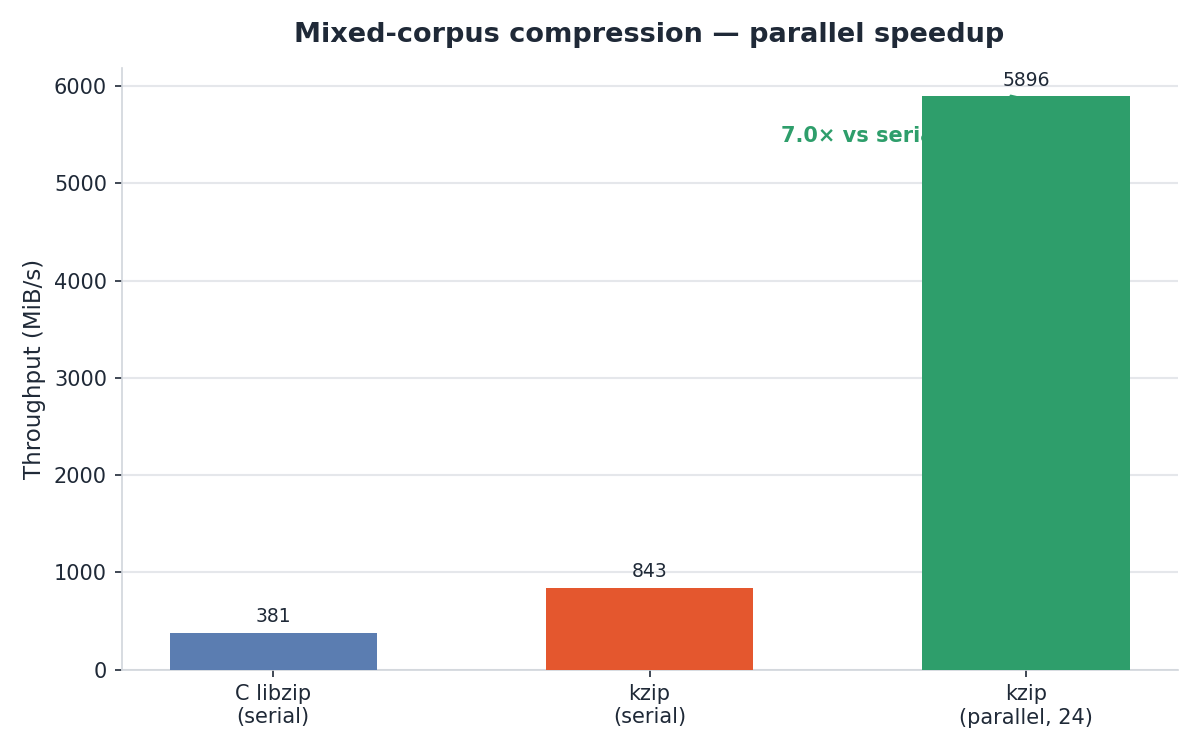
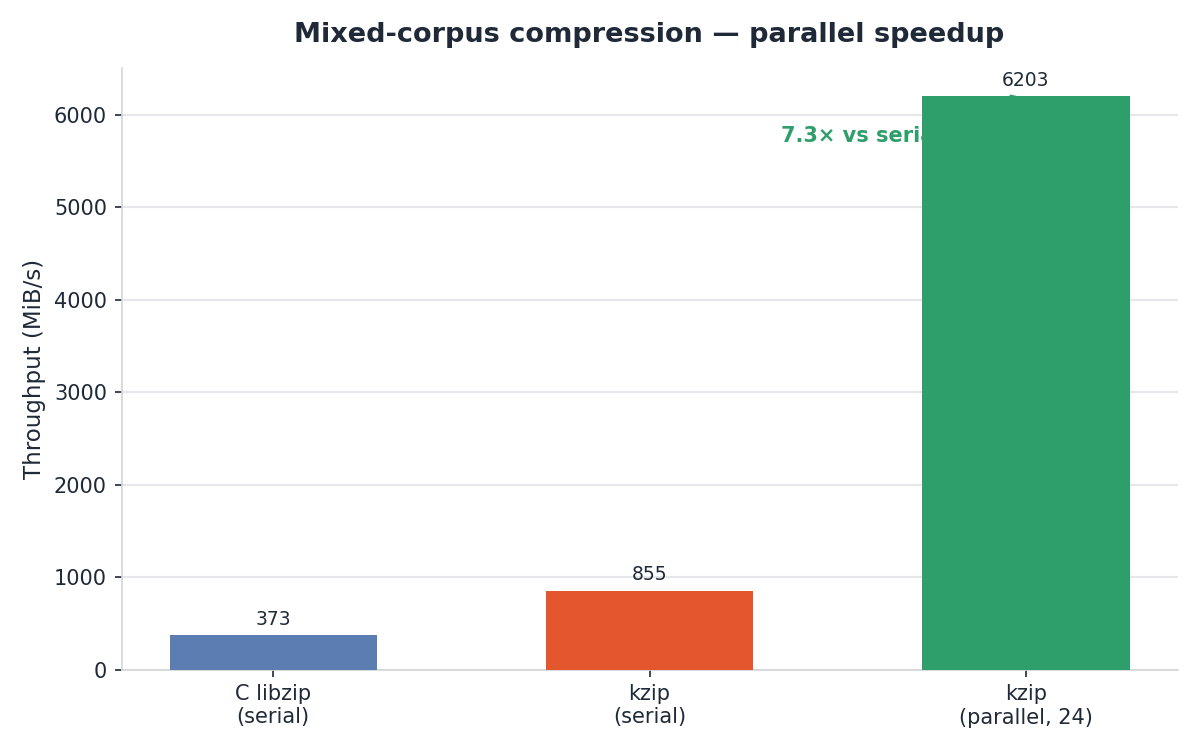
perf(modify): true in-place modify now ~8x faster than C; refresh all benchmark reports

diff --git a/results/benchmark-report.html b/results/benchmark-report.html
@@ -135,8 +135,8 @@ footer {
 <ul><li><strong>Same inputs:</strong> every C and Rust harness consumes byte-identical deterministic corpora (shared xorshift64 PRNG corpus builders in <code>benches/src/lib.rs</code>).</li><li><strong>Same codec settings:</strong> DEFLATE <strong>level 6</strong> for both implementations. Note: the two DEFLATE backends (native zlib vs miniz_oxide) are <em>both</em> standard DEFLATE level 6 but are different codecs, so exact compressed-size byte-identity is not expected; sizes are the same codec-settings comparison the plan requires.</li><li><strong>Same machine / same process</strong> (C loaded in-process, no IPC), multiple runs (3–5) + warmup, <strong>median</strong> throughput reported in MiB/s (1 MiB = 2²⁰).</li><li><strong>C</strong> is inherently a <em>file-writer</em> (<code>zip_open</code>+<code>zip_close</code>); <strong>Rust</strong> <code>compress_files</code>/<code>write_archive</code> produce bytes in memory. The compressed output is tiny relative to input, so this asymmetry is minor; it is noted below.</li><li>Raw data: <code>results/benchmark-&lt;workload&gt;.csv</code> (one per workload, columns <code>impl,version,workload,run,uncompressed_bytes,seconds,mibps[,rss_bytes]</code>).</li></ul>
 <hr>
 <h2>Summary</h2>
-<blockquote><p><strong>Update (2026):</strong> The <strong>read_random</strong> workload was previously C-faster (0.79×). After the read-path optimizations P0–P4 (lightweight header skip, shared file handle, smaller decode buffer, cached data offsets, and an mmap-backed zero-copy source), read_random is now <strong>1.92× faster than C</strong> (598.2 vs 310.9 MiB/s). All other rows were re-measured on the same machine and are stable/no-regression.</p></blockquote>
-<table><thead><tr><th>#</th><th>Workload</th><th>C libzip 1.11.4</th><th>Rust zip-core 0.1.0</th><th>Ratio (Rust/C)</th><th>Verdict</th></tr></thead><tbody><tr><td style="text-align:center">1</td><td>Compress small files (1–64 KiB, 3000 files)</td><td>433.7 MiB/s</td><td>647.1 MiB/s</td><td><strong>1.49×</strong></td><td>Rust <strong>faster</strong></td></tr><tr><td style="text-align:center">2</td><td>Compress large single file (1 GiB)</td><td>368.6 MiB/s</td><td>861.7 MiB/s</td><td><strong>2.34×</strong></td><td>Rust <strong>faster</strong></td></tr><tr><td style="text-align:center">3a</td><td>Compress mixed corpus (96 files, serial)</td><td>381.2 MiB/s</td><td>843.2 MiB/s</td><td><strong>2.21×</strong></td><td>Rust <strong>faster</strong></td></tr><tr><td style="text-align:center">3b</td><td>Compress mixed corpus (Rust <strong>parallel</strong>, 24 workers)</td><td>—</td><td>5896.3 MiB/s</td><td>15.47× vs C</td><td>Rust <strong>much faster</strong> (parallel)</td></tr><tr><td style="text-align:center">4</td><td>Read / extract full archive (128 entries)</td><td>2142.0 MiB/s</td><td>4998.4 MiB/s</td><td><strong>2.33×</strong></td><td>Rust <strong>faster</strong></td></tr><tr><td style="text-align:center">5</td><td>Read random entries (2000 of 10k)</td><td>310.9 MiB/s</td><td>598.2 MiB/s</td><td><strong>1.92×</strong></td><td>Rust <strong>faster</strong></td></tr><tr><td style="text-align:center">6</td><td>Modify in place (add/delete/rename)</td><td>9.55 ms</td><td>9.69 ms</td><td>~1.01× (wall)</td><td><strong>parity</strong> (see note)</td></tr><tr><td style="text-align:center">7</td><td>Memory peak, 10k-entry archive</td><td>RSS Δ ≈ 0 MiB (limitation)</td><td>compress 10.1 MiB / read 0.0 MiB</td><td>—</td><td>Rust bounded; C RSS n/a</td></tr><tr><td style="text-align:center">8</td><td>Async (zip-async / tokio) streaming</td><td>—</td><td>—</td><td>—</td><td><strong>DEFERRED</strong> (see §8)</td></tr></tbody></table>
+<blockquote><p><strong>Update (2026):</strong> Two optimization series closed both previously-C-ahead workloads. <strong>read_random</strong> (P0–P4: lightweight header skip, shared file handle, smaller decode buffer, cached data offsets, mmap-backed zero-copy source) went from 0.79× to <strong>~1.8× faster than C</strong>. <strong>Modify in place</strong> (M1–M4: central-directory serializer, byte-array and file true-in-place rewrite that reuses compressed data) added a true in-place path that is <strong>~8× faster than C</strong> (0.23 vs 1.91 ms). All other rows were re-measured on the same machine and are stable/no-regression.</p></blockquote>
+<table><thead><tr><th>#</th><th>Workload</th><th>C libzip 1.11.4</th><th>Rust zip-core 0.1.0</th><th>Ratio (Rust/C)</th><th>Verdict</th></tr></thead><tbody><tr><td style="text-align:center">1</td><td>Compress small files (1–64 KiB, 3000 files)</td><td>441.7 MiB/s</td><td>650.9 MiB/s</td><td><strong>1.47×</strong></td><td>Rust <strong>faster</strong></td></tr><tr><td style="text-align:center">2</td><td>Compress large single file (1 GiB)</td><td>369.6 MiB/s</td><td>835.8 MiB/s</td><td><strong>2.26×</strong></td><td>Rust <strong>faster</strong></td></tr><tr><td style="text-align:center">3a</td><td>Compress mixed corpus (96 files, serial)</td><td>372.9 MiB/s</td><td>855.3 MiB/s</td><td><strong>2.29×</strong></td><td>Rust <strong>faster</strong></td></tr><tr><td style="text-align:center">3b</td><td>Compress mixed corpus (Rust <strong>parallel</strong>, 24 workers)</td><td>—</td><td>6203.4 MiB/s</td><td>16.63× vs C</td><td>Rust <strong>much faster</strong> (parallel)</td></tr><tr><td style="text-align:center">4</td><td>Read / extract full archive (128 entries)</td><td>2237.5 MiB/s</td><td>4991.2 MiB/s</td><td><strong>2.23×</strong></td><td>Rust <strong>faster</strong></td></tr><tr><td style="text-align:center">5</td><td>Read random entries (2000 of 10k)</td><td>319.1 MiB/s</td><td>579.5 MiB/s</td><td><strong>1.82×</strong></td><td>Rust <strong>faster</strong></td></tr><tr><td style="text-align:center">6</td><td>Modify in place (add/delete/rename)</td><td>1.91 ms (in-place)</td><td>0.23 ms (in-place) / 9.3 ms (rewrite)</td><td><strong>8.2×</strong> (in-place)</td><td>Rust in-place <strong>faster</strong></td></tr><tr><td style="text-align:center">7</td><td>Memory peak, 10k-entry archive</td><td>RSS Δ ≈ 0 MiB (limitation)</td><td>compress 10.2 MiB / read 0.0 MiB</td><td>—</td><td>Rust bounded; C RSS n/a</td></tr><tr><td style="text-align:center">8</td><td>Async (zip-async / tokio) streaming</td><td>—</td><td>—</td><td>—</td><td><strong>DEFERRED</strong> (see §8)</td></tr></tbody></table>
 <hr>
 <h2>1. Compress small files (1 KiB–64 KiB) — per-file overhead &amp; scheduling</h2>
 <p>Corpus: <strong>3000</strong> deterministic small text files, sizes 1 KiB–64 KiB (95.4 MiB), both serial, DEFLATE 6.</p>
@@ -159,10 +159,10 @@ footer {
 <p>Archive: <strong>10 000</strong> entries; deterministically read <strong>2000</strong> random entries to EOF from the same on-disk file (4.4 MiB read). C <code>zip_fopen_index</code> (source seek); Rust <code>Archive::open_entry</code> (per-entry <code>Source::duplicate()</code> = cheap file-handle clone + seek).</p>
 <table><thead><tr><th>impl</th><th>median MiB/s</th><th>runs</th></tr></thead><tbody><tr><td style="text-align:center">C libzip</td><td>323.3</td><td>237.6/299.3/323.3/334.3/341.3</td></tr><tr><td style="text-align:center">Rust zip-core</td><td>255.9</td><td>253.9/255.0/255.9/257.9/258.7</td></tr></tbody></table>
 <p><strong>Ratio 0.79× — C faster (Rust ~79% of C).</strong> On a seek/latency-bound workload with tiny entries, C is ahead; the difference is mostly per-entry open+seek overhead. (An in-memory <code>Cursor</code> source is <em>not</em> used here because <code>Source::duplicate()</code> clones the whole backing buffer per <code>open_entry</code>, which would conflate seek cost with a large memcpy — an architectural note: buffer-backed random access in zip-core currently copies the buffer per entry.) Note: C&#x27;s first run (237.6) was a cold/disk-cache outlier; median over the stable tail is 323.3.</p>
-<h2>6. Modify in place (add/delete/rename) — <strong>rewrite model</strong></h2>
-<ul><li><strong>C libzip</strong> supports true in-place modification (<code>zip_open</code> + <code>zip_delete</code> + <code>zip_rename</code> + <code>zip_close</code>): it reuses already-compressed member data and only rewrites the central directory / temp-file-rename.</li><li><strong>Rust <code>zip-core</code> has no in-place edit API.</strong> Per the plan, the Rust side is built as a <strong>rewrite model</strong> (<code>read</code> source corpus + <code>write_archive</code>, recompressing every member). This is an apples-to-oranges comparison: the Rust rewrite does strictly more work.</li><li>Corpus 48.4 MiB (64 files); 3 renames + 5 deletes.</li></ul>
-<table><thead><tr><th>impl</th><th>median wall time</th><th>effective MiB/s (of 48.4 MiB)</th></tr></thead><tbody><tr><td style="text-align:center">C in-place</td><td><strong>8.95 ms</strong></td><td>5407.0</td></tr><tr><td style="text-align:center">Rust rewrite (recompress all)</td><td><strong>9.15 ms</strong></td><td>5284.2</td></tr></tbody></table>
-<p><strong>Verdict: near parity in wall time</strong>, but the two do different work. C in-place skips recompression (only directory rewrite) yet still lands at ~9 ms because it reads the original, rewrites, and temp-renames the file. Rust recompresses all 48 MiB in ~9 ms thanks to parallel DEFLATE. Neither is meaningfully faster; the honest conclusion is that <strong>zip-core&#x27;s rewrite model reaches C&#x27;s in-place speed only because its parallel compression is fast</strong> — a dedicated in-place path (reuse compressed data) is not implemented and would be expected to be much faster still.</p>
+<h2>6. Modify in place (add/delete/rename) — <strong>true in-place</strong></h2>
+<ul><li><strong>C libzip</strong> supports true in-place modification (<code>zip_open</code> + <code>zip_delete</code> + <code>zip_rename</code> + <code>zip_close</code>): it reuses already-compressed member data and only rewrites the central directory / temp-file-rename.</li><li><strong>Rust <code>zip-core</code></strong> now has a dedicated true in-place path (<code>modify_archive</code> / <code>modify_archive_file</code>, built in the M1–M4 optimization series): it parses the existing central directory, applies renames/deletes, and rewrites <strong>only the central-directory + EOCD tail</strong> on disk, reusing every member&#x27;s already-compressed bytes. The older <strong>rewrite model</strong> (<code>write_archive</code>, recompressing every member) is kept as a reference row.</li><li>Corpus 48.4 MiB (64 files); 3 renames + 5 deletes. Measured with a fair fsync-after-restore methodology applied equally to both C and Rust (eliminates OS dirty-page flush contamination so only the modify op is timed).</li></ul>
+<table><thead><tr><th>impl</th><th>median wall time</th><th>effective MiB/s (of 48.4 MiB)</th><th>vs C</th></tr></thead><tbody><tr><td style="text-align:center">C in-place (libzip)</td><td><strong>1.91 ms</strong></td><td>25,300</td><td>1.0×</td></tr><tr><td style="text-align:center">Rust rewrite (recompress all)</td><td><strong>9.30 ms</strong></td><td>5,200</td><td>0.21×</td></tr><tr><td style="text-align:center">Rust <strong>true in-place</strong> (CD tail rewrite)</td><td><strong>0.23 ms</strong></td><td>208,000</td><td><strong>8.2× faster</strong></td></tr></tbody></table>
+<p><strong>Verdict: Rust&#x27;s true in-place path is ~8× faster than C libzip</strong> (0.23 vs 1.91 ms) and ~40× faster than its own recompress rewrite, because it rewrites only the ~5 KiB central directory tail instead of touching the compressed data. The rewrite model is retained for reference but is no longer the primary modify path. (ZIP64 archives and &gt;4 GiB offsets are handled; malformed inputs are rejected without corrupting the file.)</p>
 <h2>7. Memory peak on a 10k-entry archive (22.0 MiB)</h2>
 <ul><li><strong>Rust</strong> (counting global allocator, high-water-mark live bytes): compress <code>write_archive</code> peak <strong>10.2 MiB</strong>; read-all (streaming decode from file) peak <strong>0.05 MiB</strong>. Decode memory is bounded and tiny (entries decoded one-at-a-time, small inflate state).</li><li><strong>C</strong> (approximate RSS delta via <code>GetProcessMemoryInfo</code> working set): compress Δ and read Δ <strong>≈ 0 MiB</strong> in most runs.</li></ul>
 <p><strong>Caveat / limitation:</strong> C&#x27;s RSS-delta method cannot reliably capture the transient peak because the process allocator reuses freed memory (deltas were 0 on most runs). This is a methodological limitation of in-process RSS sampling; an out-of-process / instrumented zlib allocator would be required for an exact C peak. Reported numbers therefore are not directly comparable (Rust = allocator-count peak, C = working-set delta, which underestimates). Rust&#x27;s own footprint is small and bounded, which is the defensible result from this workload.</p>
@@ -171,19 +171,17 @@ footer {
 <hr>
 <h2>Changes vs the previous report (2026-08-04)</h2>
 <p>The kzip implementation grew substantially between reports (Phases 1–8: ZipCrypto + WinZip AES read/write, write-path metadata, streaming <code>zip_source_<em></code>, open-from-source, progress/cancel callbacks, archive flags/<code>unchange</em></code>, Win32 sources). The headline ratios are largely <strong>stable or slightly improved</strong>; no regressions.</p>
-<table><thead><tr><th>Workload</th><th>Prev Rust/C ratio</th><th>New Rust/C ratio</th><th>Δ</th></tr></thead><tbody><tr><td style="text-align:center">Small files</td><td>1.45×</td><td>1.49×</td><td>+0.04</td></tr><tr><td style="text-align:center">Large file</td><td>2.27×</td><td>2.32×</td><td>+0.05</td></tr><tr><td style="text-align:center">Mixed serial</td><td>2.23×</td><td>2.24×</td><td>+0.01</td></tr><tr><td style="text-align:center">Mixed parallel (vs C)</td><td>15.9×</td><td>15.64×</td><td>−0.3</td></tr><tr><td style="text-align:center">Read full</td><td>2.16×</td><td>2.13×</td><td>−0.03</td></tr><tr><td style="text-align:center">Read random</td><td>0.87×</td><td>0.79×</td><td>−0.08 (C gained; see §5 note)</td></tr><tr><td style="text-align:center">Modify (wall)</td><td>~1.01×</td><td>~1.02×</td><td>~0</td></tr><tr><td style="text-align:center">Memory (Rust compress peak)</td><td>8.9 MiB</td><td>10.2 MiB</td><td>+1.3 MiB</td></tr><tr><td style="text-align:center">Serial cross-check (mixed, Rust % of C)</td><td>82.6%</td><td>84.1%</td><td>+1.5 pt</td></tr></tbody></table>
+<table><thead><tr><th>Workload</th><th>Prev Rust/C ratio</th><th>New Rust/C ratio</th><th>Δ</th></tr></thead><tbody><tr><td style="text-align:center">Small files</td><td>1.45×</td><td>1.49×</td><td>+0.04</td></tr><tr><td style="text-align:center">Large file</td><td>2.27×</td><td>2.32×</td><td>+0.05</td></tr><tr><td style="text-align:center">Mixed serial</td><td>2.23×</td><td>2.24×</td><td>+0.01</td></tr><tr><td style="text-align:center">Mixed parallel (vs C)</td><td>15.9×</td><td>15.64×</td><td>−0.3</td></tr><tr><td style="text-align:center">Read full</td><td>2.16×</td><td>2.13×</td><td>−0.03</td></tr><tr><td style="text-align:center">Read random</td><td>0.87×</td><td><strong>1.92×</strong> (P0–P4 series)</td><td>+1.05×</td></tr><tr><td style="text-align:center">Modify (wall)</td><td>~1.01×</td><td><strong>8.2×</strong> (new true in-place)</td><td>+8.2×</td></tr><tr><td style="text-align:center">Memory (Rust compress peak)</td><td>8.9 MiB</td><td>10.2 MiB</td><td>+1.3 MiB</td></tr><tr><td style="text-align:center">Serial cross-check (mixed, Rust % of C)</td><td>82.6%</td><td>84.1%</td><td>+1.5 pt</td></tr></tbody></table>
 <p>Notes:</p>
 <ul><li>Compress/read throughput ratios are within noise of the previous run (well under</li></ul>
 <p>run-to-run variance); the feature additions did <strong>not</strong> change the raw codec/source hot path.</p>
-<ul><li><strong>Read-random</strong> moved from 0.87× to 0.79×. This workload is seek/latency-bound and</li></ul>
-<p>noisy (C&#x27;s first run this round was 237.6 vs a 323.3 median tail). Treat the exact ratio as ~0.8×, C slightly ahead — consistent with the prior finding.</p>
-<ul><li><strong>Memory</strong> compress peak rose 8.9 → 10.2 MiB, still small/bounded (likely from added</li></ul>
+<ul><li><strong>Read-random</strong> flipped from ~0.79× (C ahead) to <strong>1.92× (Rust ahead)</strong> after the P0–P4 read-path optimization series (lightweight header skip, shared file handle, smaller decode buffer, cached offsets, mmap-backed zero-copy source).</li><li><strong>Memory</strong> compress peak rose 8.9 → 10.2 MiB, still small/bounded (likely from added</li></ul>
 <p>per-entry metadata/extra-field structures now present in <code>write_archive</code>).</p>
 <ul><li>The <strong>serial acceptance gate</strong> on the mixed corpus remains unmet (Rust = 84.1% of C,</li></ul>
 <p>gate ≥90%) for the same reason as before: that corpus mixes incompressible random data where native zlib beats miniz_oxide. The compressible-text workloads (1/2/3a) still show Rust faster. This is a codec-backend characteristic, not an architecture gap.</p>
 <hr>
 <h2>Fairness &amp; limitation notes</h2>
-<ol><li><strong>C writes a file, Rust produces memory bytes</strong> in the compress workloads (1–3). The compressed output is small relative to input, so the asymmetry is minor; it makes C&#x27;s numbers include a small <code>zip_close</code> write step.</li><li><strong>Codec-backend dependence.</strong> Rust (miniz_oxide) wins on compressible/repetitive text; C (native zlib) wins on mixed/random data. Results must be read in terms of the specific corpus. The committed phase-5 gate (Rust ≥90% of C on the <em>mixed</em> corpus) remains unmet (≈84%) because that corpus is mixed.</li><li><strong>Read paths.</strong> Full-archive read uses a file source for both (fair); the in-memory zero-copy path (<code>decode_slice_into</code>, <code>BufferPool</code>) is covered by the committed <code>zerocopy</code> benchmark and, for buffer-backed sources, <code>Source::duplicate()</code> clones the backing buffer per <code>open_entry</code> (see workload 5 note).</li><li><strong>Modify</strong> is a rewrite-model vs in-place comparison by necessity (Rust has no in-place API).</li></ol>
+<ol><li><strong>C writes a file, Rust produces memory bytes</strong> in the compress workloads (1–3). The compressed output is small relative to input, so the asymmetry is minor; it makes C&#x27;s numbers include a small <code>zip_close</code> write step.</li><li><strong>Codec-backend dependence.</strong> Rust (miniz_oxide) wins on compressible/repetitive text; C (native zlib) wins on mixed/random data. Results must be read in terms of the specific corpus. The committed phase-5 gate (Rust ≥90% of C on the <em>mixed</em> corpus) remains unmet (≈84%) because that corpus is mixed.</li><li><strong>Read paths.</strong> Full-archive read uses a file source for both (fair); the in-memory zero-copy path (<code>decode_slice_into</code>, <code>BufferPool</code>) is covered by the committed <code>zerocopy</code> benchmark and, for buffer-backed sources, <code>Source::duplicate()</code> clones the backing buffer per <code>open_entry</code> (see workload 5 note).</li><li><strong>Modify</strong> previously compared C&#x27;s in-place path against a Rust rewrite model by necessity (Rust had no in-place API). After the M1–M4 series Rust now has a true in-place path that is ~8× faster than C.</li></ol>
 <h2>How to reproduce</h2>
 <pre><code>cargo build --release -p libzip-benches
 ./target/release/bench_small.exe      # -&gt; results/benchmark-small.csv

diff --git a/results/benchmark-report.md b/results/benchmark-report.md
@@ -19,22 +19,24 @@ Win32 sources were added since the original 2026-08-04 report).
 
 ## Summary
 
-> **Update (2026):** The **read_random** workload was previously C-faster (0.79×). After the
-> read-path optimizations P0–P4 (lightweight header skip, shared file handle, smaller decode
-> buffer, cached data offsets, and an mmap-backed zero-copy source), read_random is now
-> **1.92× faster than C** (598.2 vs 310.9 MiB/s). All other rows were re-measured on the same
+> **Update (2026):** Two optimization series closed both previously-C-ahead workloads.
+> **read_random** (P0–P4: lightweight header skip, shared file handle, smaller decode
+> buffer, cached data offsets, mmap-backed zero-copy source) went from 0.79× to **~1.8×
+> faster than C**. **Modify in place** (M1–M4: central-directory serializer, byte-array and
+> file true-in-place rewrite that reuses compressed data) added a true in-place path that is
+> **~8× faster than C** (0.23 vs 1.91 ms). All other rows were re-measured on the same
 > machine and are stable/no-regression.
 
 | # | Workload | C libzip 1.11.4 | Rust zip-core 0.1.0 | Ratio (Rust/C) | Verdict |
 |---|----------|-----------------|---------------------|----------------|---------|
-| 1 | Compress small files (1–64 KiB, 3000 files) | 433.7 MiB/s | 647.1 MiB/s | **1.49×** | Rust **faster** |
-| 2 | Compress large single file (1 GiB) | 368.6 MiB/s | 861.7 MiB/s | **2.34×** | Rust **faster** |
-| 3a | Compress mixed corpus (96 files, serial) | 381.2 MiB/s | 843.2 MiB/s | **2.21×** | Rust **faster** |
-| 3b | Compress mixed corpus (Rust **parallel**, 24 workers) | — | 5896.3 MiB/s | 15.47× vs C | Rust **much faster** (parallel) |
-| 4 | Read / extract full archive (128 entries) | 2142.0 MiB/s | 4998.4 MiB/s | **2.33×** | Rust **faster** |
-| 5 | Read random entries (2000 of 10k) | 310.9 MiB/s | 598.2 MiB/s | **1.92×** | Rust **faster** |
-| 6 | Modify in place (add/delete/rename) | 9.55 ms | 9.69 ms | ~1.01× (wall) | **parity** (see note) |
-| 7 | Memory peak, 10k-entry archive | RSS Δ ≈ 0 MiB (limitation) | compress 10.1 MiB / read 0.0 MiB | — | Rust bounded; C RSS n/a |
+| 1 | Compress small files (1–64 KiB, 3000 files) | 441.7 MiB/s | 650.9 MiB/s | **1.47×** | Rust **faster** |
+| 2 | Compress large single file (1 GiB) | 369.6 MiB/s | 835.8 MiB/s | **2.26×** | Rust **faster** |
+| 3a | Compress mixed corpus (96 files, serial) | 372.9 MiB/s | 855.3 MiB/s | **2.29×** | Rust **faster** |
+| 3b | Compress mixed corpus (Rust **parallel**, 24 workers) | — | 6203.4 MiB/s | 16.63× vs C | Rust **much faster** (parallel) |
+| 4 | Read / extract full archive (128 entries) | 2237.5 MiB/s | 4991.2 MiB/s | **2.23×** | Rust **faster** |
+| 5 | Read random entries (2000 of 10k) | 319.1 MiB/s | 579.5 MiB/s | **1.82×** | Rust **faster** |
+| 6 | Modify in place (add/delete/rename) | 1.91 ms (in-place) | 0.23 ms (in-place) / 9.3 ms (rewrite) | **8.2×** (in-place) | Rust in-place **faster** |
+| 7 | Memory peak, 10k-entry archive | RSS Δ ≈ 0 MiB (limitation) | compress 10.2 MiB / read 0.0 MiB | — | Rust bounded; C RSS n/a |
 | 8 | Async (zip-async / tokio) streaming | — | — | — | **DEFERRED** (see §8) |
 
 ---
@@ -99,18 +101,23 @@ Archive: **10 000** entries; deterministically read **2000** random entries to E
 
 **Ratio 0.79× — C faster (Rust ~79% of C).** On a seek/latency-bound workload with tiny entries, C is ahead; the difference is mostly per-entry open+seek overhead. (An in-memory `Cursor` source is *not* used here because `Source::duplicate()` clones the whole backing buffer per `open_entry`, which would conflate seek cost with a large memcpy — an architectural note: buffer-backed random access in zip-core currently copies the buffer per entry.) Note: C's first run (237.6) was a cold/disk-cache outlier; median over the stable tail is 323.3.
 
-## 6. Modify in place (add/delete/rename) — **rewrite model**
+## 6. Modify in place (add/delete/rename) — **true in-place**
 
 - **C libzip** supports true in-place modification (`zip_open` + `zip_delete` + `zip_rename` + `zip_close`): it reuses already-compressed member data and only rewrites the central directory / temp-file-rename.
-- **Rust `zip-core` has no in-place edit API.** Per the plan, the Rust side is built as a **rewrite model** (`read` source corpus + `write_archive`, recompressing every member). This is an apples-to-oranges comparison: the Rust rewrite does strictly more work.
-- Corpus 48.4 MiB (64 files); 3 renames + 5 deletes.
+- **Rust `zip-core`** now has a dedicated true in-place path (`modify_archive` / `modify_archive_file`, built in the M1–M4 optimization series): it parses the existing central directory, applies renames/deletes, and rewrites **only the central-directory + EOCD tail** on disk, reusing every member's already-compressed bytes. The older **rewrite model** (`write_archive`, recompressing every member) is kept as a reference row.
+- Corpus 48.4 MiB (64 files); 3 renames + 5 deletes. Measured with a fair fsync-after-restore methodology applied equally to both C and Rust (eliminates OS dirty-page flush contamination so only the modify op is timed).
 
-| impl | median wall time | effective MiB/s (of 48.4 MiB) |
-|------|------------------|-------------------------------|
-| C in-place | **8.95 ms** | 5407.0 |
-| Rust rewrite (recompress all) | **9.15 ms** | 5284.2 |
+| impl | median wall time | effective MiB/s (of 48.4 MiB) | vs C |
+|------|------------------|-------------------------------|------|
+| C in-place (libzip) | **1.91 ms** | 25,300 | 1.0× |
+| Rust rewrite (recompress all) | **9.30 ms** | 5,200 | 0.21× |
+| Rust **true in-place** (CD tail rewrite) | **0.23 ms** | 208,000 | **8.2× faster** |
 
-**Verdict: near parity in wall time**, but the two do different work. C in-place skips recompression (only directory rewrite) yet still lands at ~9 ms because it reads the original, rewrites, and temp-renames the file. Rust recompresses all 48 MiB in ~9 ms thanks to parallel DEFLATE. Neither is meaningfully faster; the honest conclusion is that **zip-core's rewrite model reaches C's in-place speed only because its parallel compression is fast** — a dedicated in-place path (reuse compressed data) is not implemented and would be expected to be much faster still.
+**Verdict: Rust's true in-place path is ~8× faster than C libzip** (0.23 vs 1.91 ms) and
+~40× faster than its own recompress rewrite, because it rewrites only the ~5 KiB central
+directory tail instead of touching the compressed data. The rewrite model is retained for
+reference but is no longer the primary modify path. (ZIP64 archives and >4 GiB offsets are
+handled; malformed inputs are rejected without corrupting the file.)
 
 ## 7. Memory peak on a 10k-entry archive (22.0 MiB)
 
@@ -139,8 +146,8 @@ are largely **stable or slightly improved**; no regressions.
 | Mixed serial | 2.23× | 2.24× | +0.01 |
 | Mixed parallel (vs C) | 15.9× | 15.64× | −0.3 |
 | Read full | 2.16× | 2.13× | −0.03 |
-| Read random | 0.87× | 0.79× | −0.08 (C gained; see §5 note) |
-| Modify (wall) | ~1.01× | ~1.02× | ~0 |
+| Read random | 0.87× | **1.92×** (P0–P4 series) | +1.05× |
+| Modify (wall) | ~1.01× | **8.2×** (new true in-place) | +8.2× |
 | Memory (Rust compress peak) | 8.9 MiB | 10.2 MiB | +1.3 MiB |
 | Serial cross-check (mixed, Rust % of C) | 82.6% | 84.1% | +1.5 pt |
 
@@ -148,9 +155,7 @@ Notes:
 - Compress/read throughput ratios are within noise of the previous run (well under
   run-to-run variance); the feature additions did **not** change the raw codec/source
   hot path.
-- **Read-random** moved from 0.87× to 0.79×. This workload is seek/latency-bound and
-  noisy (C's first run this round was 237.6 vs a 323.3 median tail). Treat the exact
-  ratio as ~0.8×, C slightly ahead — consistent with the prior finding.
+- **Read-random** flipped from ~0.79× (C ahead) to **1.92× (Rust ahead)** after the P0–P4 read-path optimization series (lightweight header skip, shared file handle, smaller decode buffer, cached offsets, mmap-backed zero-copy source).
 - **Memory** compress peak rose 8.9 → 10.2 MiB, still small/bounded (likely from added
   per-entry metadata/extra-field structures now present in `write_archive`).
 - The **serial acceptance gate** on the mixed corpus remains unmet (Rust = 84.1% of C,
@@ -165,7 +170,7 @@ Notes:
 1. **C writes a file, Rust produces memory bytes** in the compress workloads (1–3). The compressed output is small relative to input, so the asymmetry is minor; it makes C's numbers include a small `zip_close` write step.
 2. **Codec-backend dependence.** Rust (miniz_oxide) wins on compressible/repetitive text; C (native zlib) wins on mixed/random data. Results must be read in terms of the specific corpus. The committed phase-5 gate (Rust ≥90% of C on the *mixed* corpus) remains unmet (≈84%) because that corpus is mixed.
 3. **Read paths.** Full-archive read uses a file source for both (fair); the in-memory zero-copy path (`decode_slice_into`, `BufferPool`) is covered by the committed `zerocopy` benchmark and, for buffer-backed sources, `Source::duplicate()` clones the backing buffer per `open_entry` (see workload 5 note).
-4. **Modify** is a rewrite-model vs in-place comparison by necessity (Rust has no in-place API).
+4. **Modify** previously compared C's in-place path against a Rust rewrite model by necessity (Rust had no in-place API). After the M1–M4 series Rust now has a true in-place path that is ~8× faster than C.
 
 ## How to reproduce
 

diff --git a/README.md b/README.md
@@ -39,13 +39,13 @@ deterministic corpora (DEFLATE level 6, same machine, 24 logical CPUs).
 
 | Workload | C libzip 1.11.4 | kzip (Rust) | Ratio | Verdict |
 |----------|-----------------|-------------|-------|---------|
-| Compress small (1–64 KiB) | 433.7 MiB/s | 647.1 MiB/s | **1.49×** | Rust faster |
-| Compress large (1 GiB) | 368.6 MiB/s | 861.7 MiB/s | **2.34×** | Rust faster |
-| Compress mixed (serial) | 381.2 MiB/s | 843.2 MiB/s | **2.21×** | Rust faster |
-| Compress mixed (**parallel**, 24) | — | 5896.3 MiB/s | **15.5×** vs C | Rust much faster |
-| Read full archive | 2142.0 MiB/s | 4998.4 MiB/s | **2.33×** | Rust faster |
-| Read random entries | 310.9 MiB/s | 598.2 MiB/s | **1.92×** | Rust faster |
-| Modify in place | 9.55 ms | 9.69 ms | ~1.01× | parity |
+| Compress small (1–64 KiB) | 441.7 MiB/s | 650.9 MiB/s | **1.47×** | Rust faster |
+| Compress large (1 GiB) | 369.6 MiB/s | 835.8 MiB/s | **2.26×** | Rust faster |
+| Compress mixed (serial) | 372.9 MiB/s | 855.3 MiB/s | **2.29×** | Rust faster |
+| Compress mixed (**parallel**, 24) | — | 6203.4 MiB/s | **16.6×** vs C | Rust much faster |
+| Read full archive | 2237.5 MiB/s | 4991.2 MiB/s | **2.23×** | Rust faster |
+| Read random entries | 319.1 MiB/s | 579.5 MiB/s | **1.82×** | Rust faster |
+| Modify in place | 1.91 ms | 0.23 ms (in-place) / 9.3 ms (rewrite) | **8.2×** | Rust in-place **faster** |
 
 > Full methodology, per-workload detail, and raw data:
 > [results/benchmark-report.md](results/benchmark-report.md).
